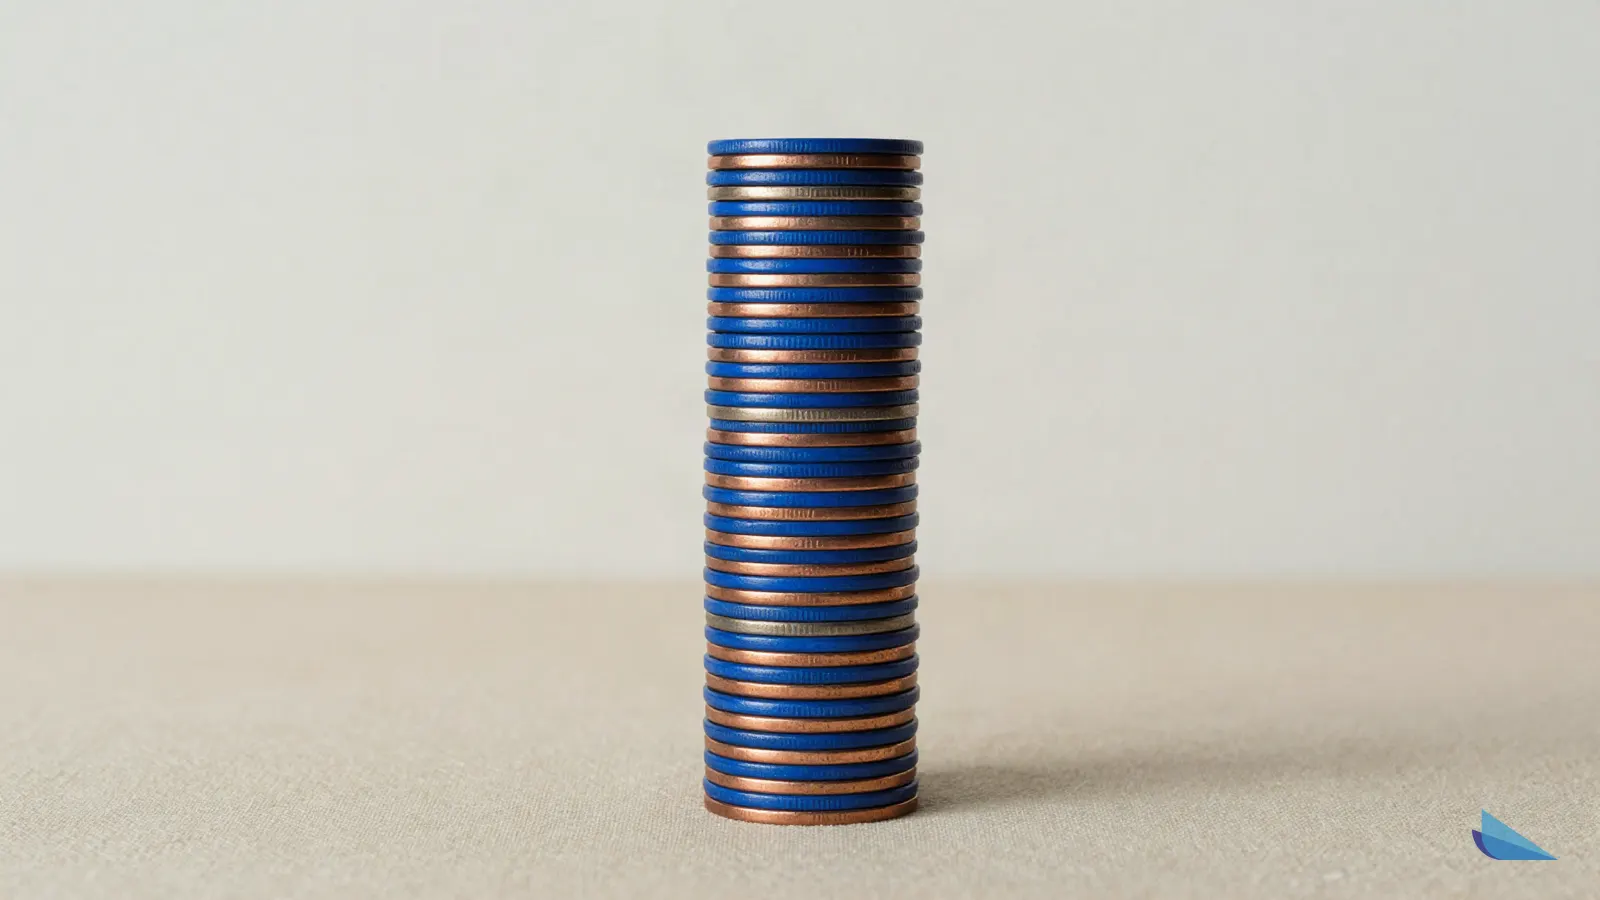
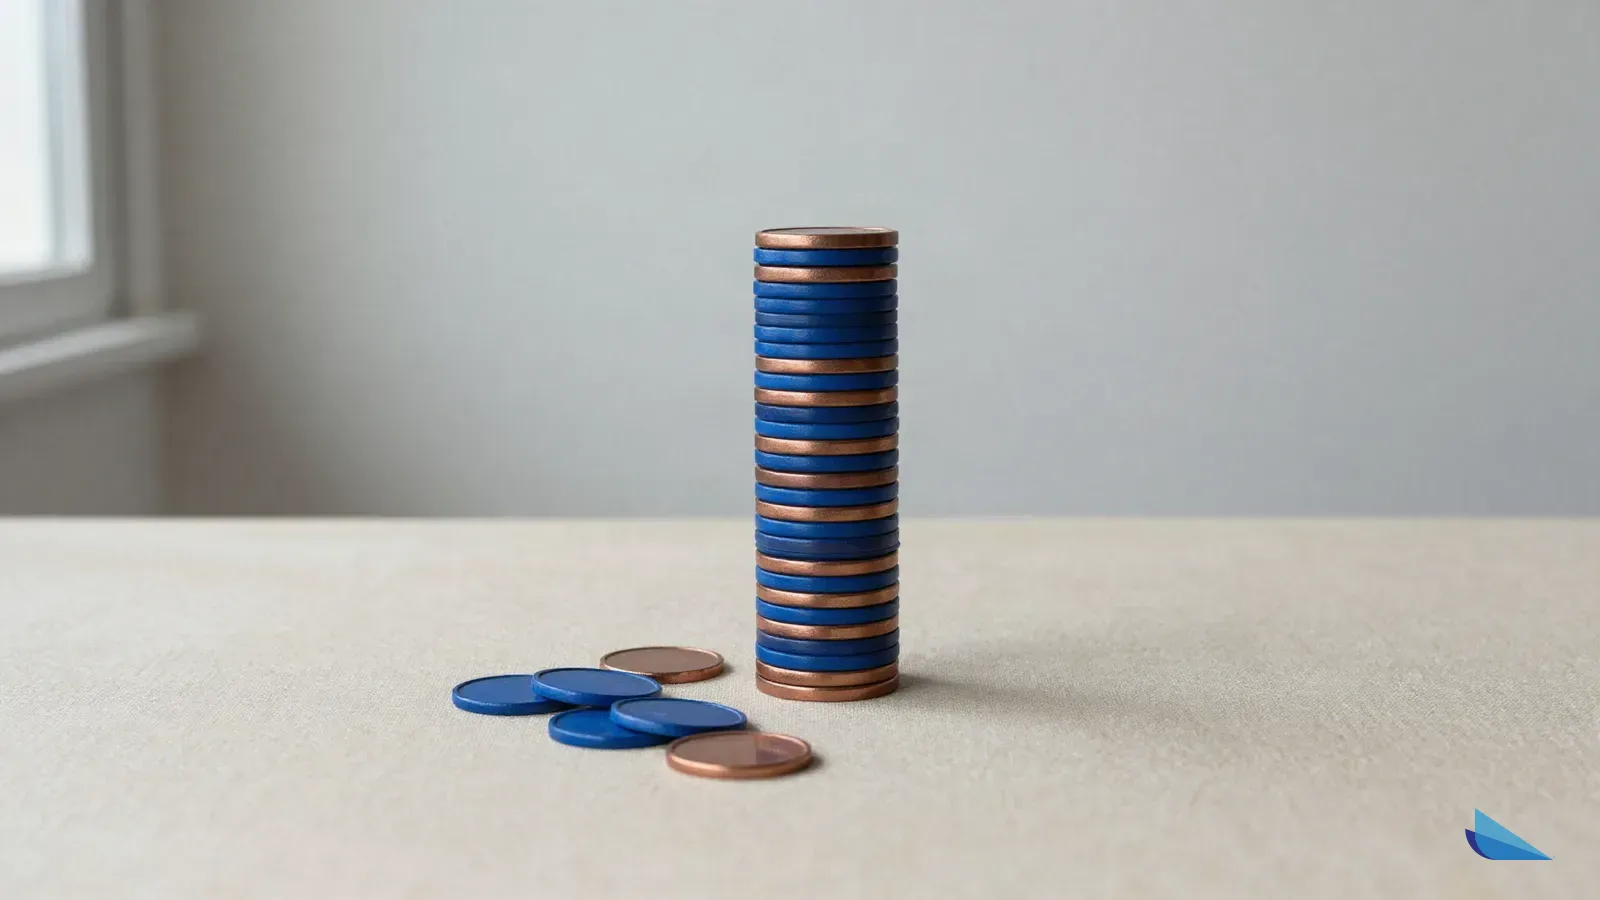
Quince fotografías: cinco escenas nuevas y una por servicio, con el sello del isotipo
Servicios enseña piezas que unen los dos bloques; VoltAi lleva fichas en la
mesa; Doctrina, el libro protagonista; Nosotros, un balcón con horizonte y mar
en calma; Enterprise, lápices de puntas de colores con el azul al centro. Cada
servicio tiene su escena de la misma sesión. Mapeadas por ruta en Fotografia.

diff --git a/components/Fotografia.tsx b/components/Fotografia.tsx
@@ -27,6 +27,27 @@ const POR_RUTA: Record<string, string> = {
   "/en/ai/enterprise": "enterprise",
   "/ai/factory": "factory",
   "/en/ai/factory": "factory",
+  // Una escena por servicio (2026-09-18), misma sesión y mismo acento azul.
+  "/ai/academy/phoenix-peex": "phoenix-peex",
+  "/en/ai/academy/phoenix-peex": "phoenix-peex",
+  "/ai/academy/phoenix-teax": "phoenix-teax",
+  "/en/ai/academy/phoenix-teax": "phoenix-teax",
+  "/ai/academy/phoenix-retx": "phoenix-retx",
+  "/en/ai/academy/phoenix-retx": "phoenix-retx",
+  "/ai/academy/customize-programs": "customize-programs",
+  "/en/ai/academy/customize-programs": "customize-programs",
+  "/ai/academy/ai-coaching": "ai-coaching",
+  "/en/ai/academy/ai-coaching": "ai-coaching",
+  "/ai/enterprise/readiness": "readiness",
+  "/en/ai/enterprise/readiness": "readiness",
+  "/ai/enterprise/implement": "implement",
+  "/en/ai/enterprise/implement": "implement",
+  "/ai/factory/app-building": "app-building",
+  "/en/ai/factory/app-building": "app-building",
+  "/ai/factory/age-building": "age-building",
+  "/en/ai/factory/age-building": "age-building",
+  "/ai/factory/coo-as-a-service": "coo-as-a-service",
+  "/en/ai/factory/coo-as-a-service": "coo-as-a-service",
   "/holdings": "holdings",
   "/en/holdings": "holdings",
   "/doctrina": "doctrina",

diff --git a/docs/work_log.md b/docs/work_log.md
@@ -2997,3 +2997,9 @@ con su fuente declarada en la línea, para que `check:copy` las acepte, y reflej
 Frenos: content, cadenas, secretos, env, motion, migraciones, compilación, páginas (142), blog (51),
 armazón (60), SEO (226), presupuesto de JS. Pendiente al cierre: las fotografías nuevas (agente en
 curso) y su mapeo en `Fotografia.tsx`.
+
+**Fotografías (2026-09-18).** Quince escenas nuevas de la misma sesión (`z_image`, 3,6 créditos):
+cinco sustituidas —Servicios con piezas que unen los dos bloques, VoltAi con fichas, Doctrina con el
+libro protagonista, Nosotros en un balcón con horizonte y mar, Enterprise con lápices de puntas de
+colores y el azul al centro— y una por servicio. Todas con el isotipo como sello en la esquina, como
+las anteriores, y mapeadas en `Fotografia.tsx`. Peso: 24–47 KB.
